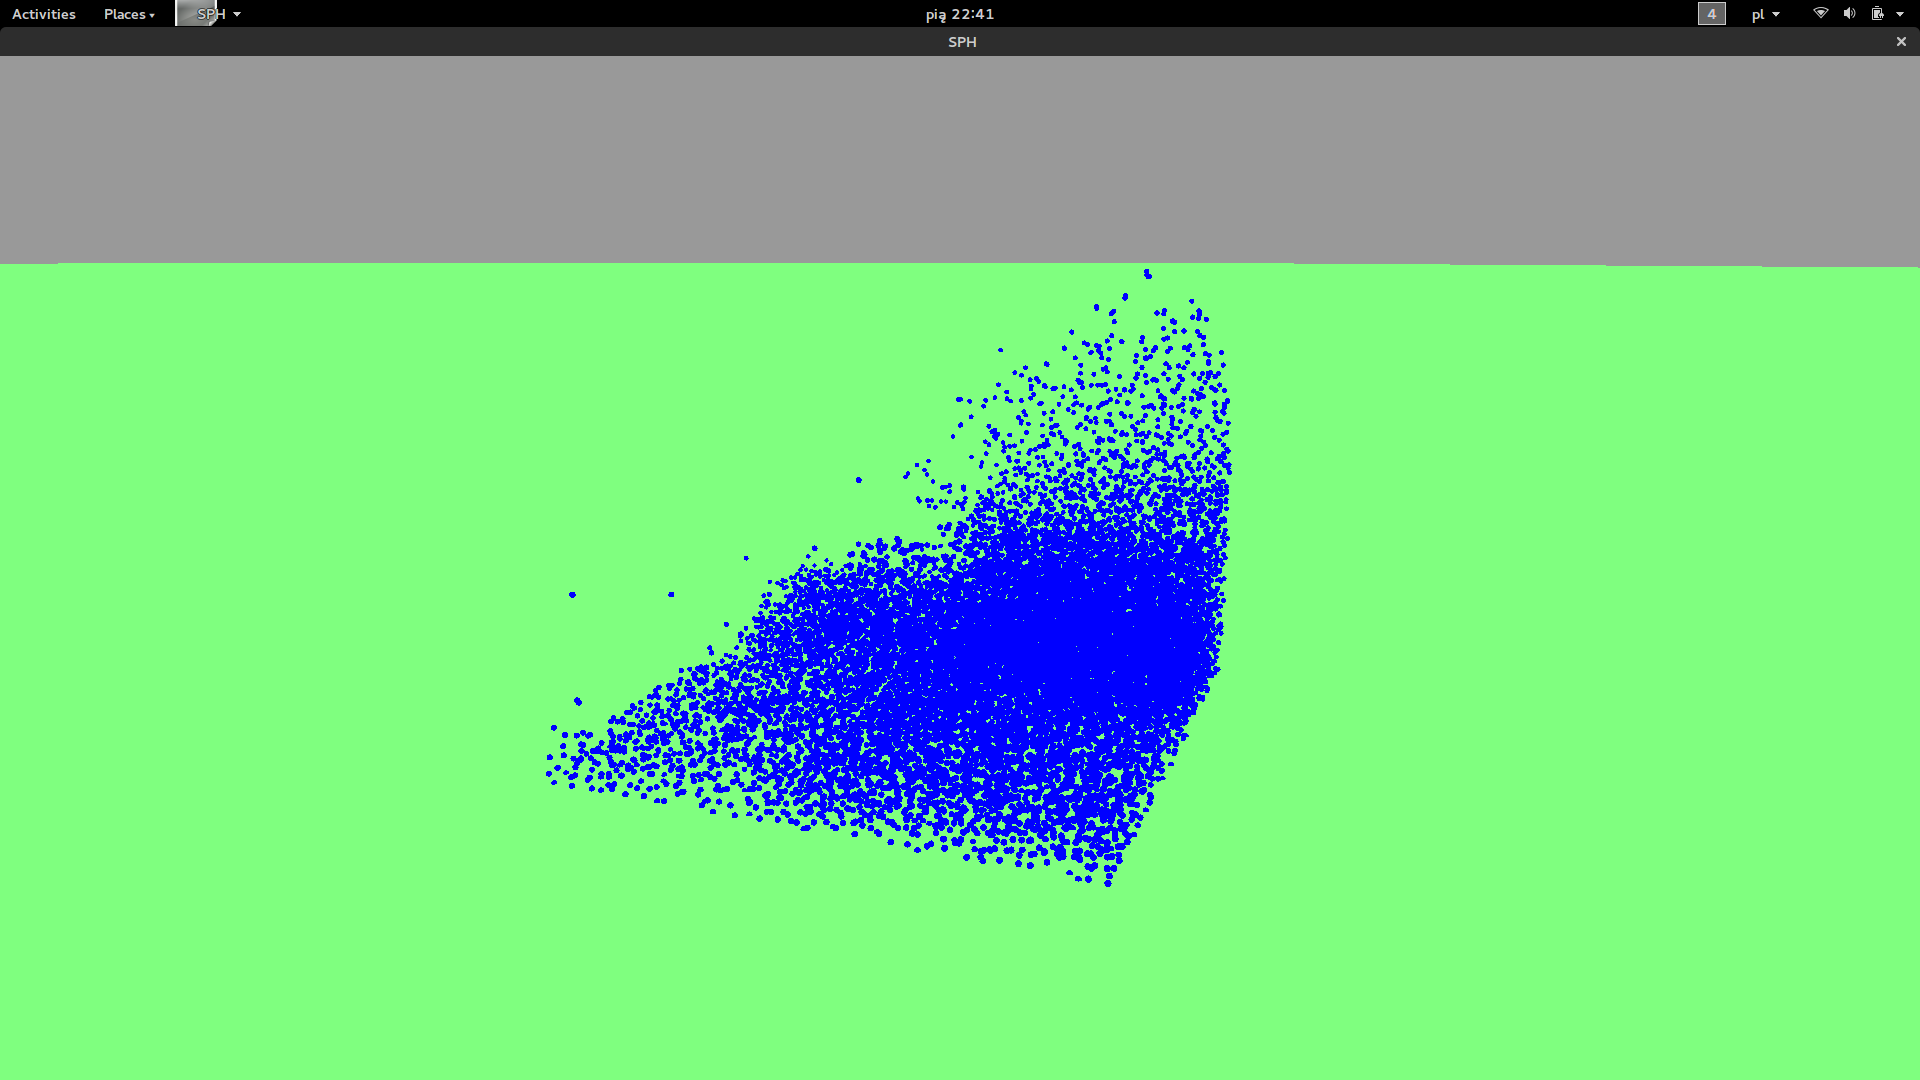
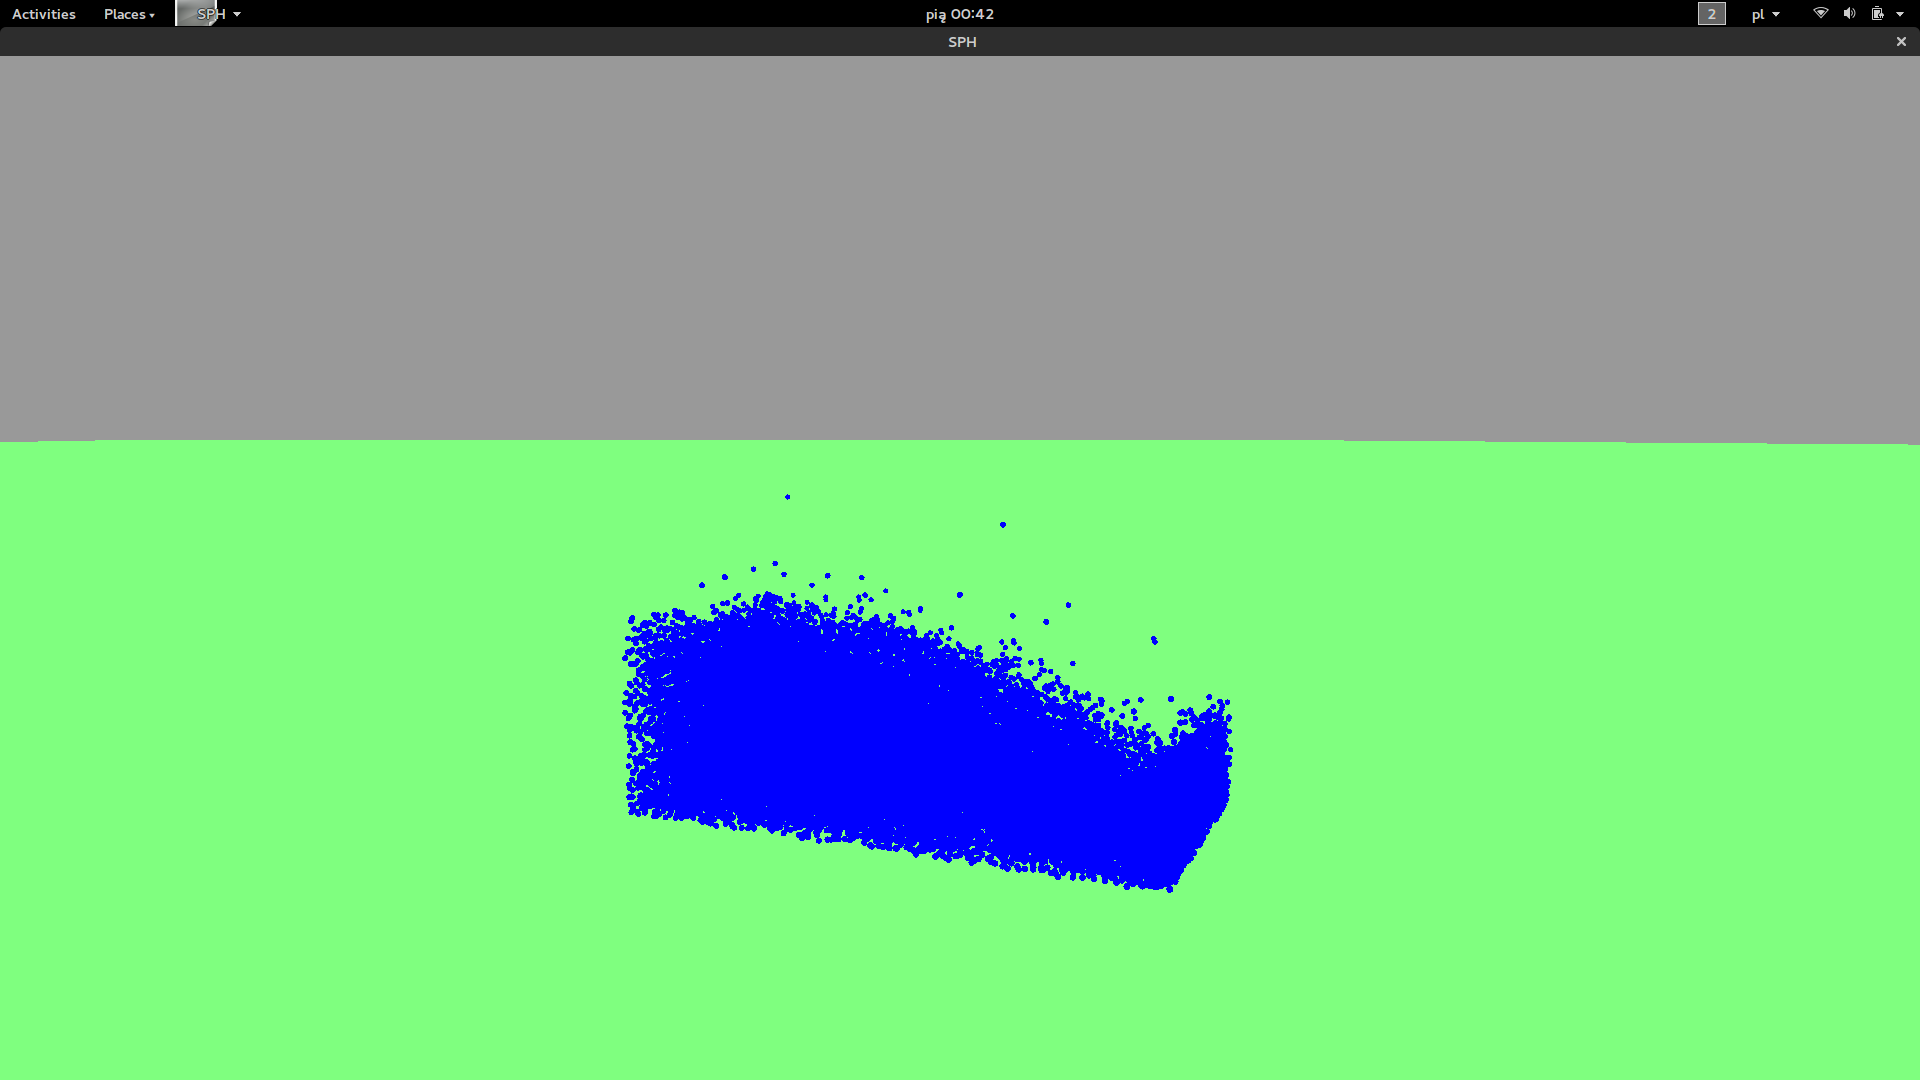
"Update przewodnik2.tex"

Changed region(s): [[0.0, 0.2444, 1.0, 0.825]]

diff --git a/doc/przewodnik.tex b/doc/przewodnik.tex
@@ -25,16 +25,32 @@
 
 \section{Opis problemu}
 
-	Symulacja czasu rzeczywistego zjawisk fizycznych jest zagadnieniem złożonym zarówno od strony teoretycznej jak i od strony implementacyjnej. Aby uzyskać realistycznie wyglądający efekt wymagane jest opracowanie szczegółowego modelu fizycznego danego zjawiska, zapisanie go w taki sposób aby umożliwić jego implementację i na końcu olbrzymia moc obliczeniowa, aby móc podziwiać efekty działania modelu w czasie rzeczywistym. Pierwsze dwa kroki są zależne od nas i możemy je do woli szlifować, jednak w obliczu zbyt małej mocy procesorów jedyny możliwy efekt końcowy do zbiór danych wyjściowych otrzymywany po wykonaniu wszystkich obliczeń - rzecz bezużyteczna w symulacjach czasu rzeczywistego takich jak na przykład gry komputerowe.
-
-	W symulacji zjawisk fizycznych często występuje konieczność wykonywania dużej ilość prostych, powtarzalnych obliczeń dla różnych elementów układu. Przykładem może być symulacja zachowania żdźbeł trawy w szerokim polu. Mogą być ich miliony, a dla każdego z nich musimy wykonać podobne obliczenia zależne od takich czynników jak kierunek wiatru, nacisk otaczających elementów czy ukształtowanie podłoża. CPU nie będzie w stanie nadążyć przy tak olbrzymiej liczbie elementów nawet jeśli odpowienio wykorzystamy wszystkie dostępne rdzenie. 
+	Symulacja czasu rzeczywistego zjawisk fizycznych jest zagadnieniem złożonym zarówno od strony teoretycznej, jak i od strony implementacyjnej. Aby uzyskać realistycznie wyglądający efekt wymagane jest opracowanie szczegółowego modelu fizycznego danego zjawiska, zapisanie go w taki sposób aby umożliwić jego implementację i na końcu olbrzymia moc obliczeniowa, aby móc podziwiać efekty działania modelu w czasie rzeczywistym. Pierwsze dwa kroki są zależne od nas i możemy je do woli szlifować, jednak w obliczu zbyt małej mocy procesorów jedyny możliwy efekt końcowy do zbiór danych wyjściowych otrzymywany po wykonaniu wszystkich obliczeń - rzecz bezużyteczna w symulacjach czasu rzeczywistego takich jak na przykład gry komputerowe.
 	
+	$\,$
 
-		Gdy procesory przestały znacząco zwiększać swoją prędkość taktowania, a zaczęła rosnąć ich koegzystentna ilość, popularniejsze stało się przeprowadzanie niezależnych, zrównoleglonych obliczeń w celu pełnego wykorzystania potencjału sprzętu. GPGPU (general purpose computation on graphics processing unit) to technika wykonywania równoległych obliczeń na procesorach graficznych, która zyskuje na popularnośći w ostatnich latach. Wynika to z tego, że w nowoczesnych GPU wykorzystywany jest model obliczeniowy SIMT (single instruction, multiple threads), który w połączeniu z ogromną (w stosunku do CPU) ilością rdzeni (setki, czy nawet tysiące) sprawia, że implementacje pewnych algorytmów mogą uzyskać olbrzymie przyspieszenie.
+	W symulacji zjawisk fizycznych często występuje konieczność wykonywania dużej ilość prostych, powtarzalnych obliczeń dla różnych elementów układu. Przykładem może być symulacja zachowania źdźbeł trawy w szerokim polu. Mogą być ich miliony, a dla każdego z nich musimy wykonać podobne obliczenia zależne od takich czynników jak: kierunek wiatru, nacisk otaczających elementów czy ukształtowanie podłoża. CPU nie będzie w stanie nadążyć przy tak olbrzymiej liczbie elementów, nawet jeśli odpowiednio wykorzystamy wszystkie dostępne rdzenie. 
+	
+	$\,$
 
-	Zjawisko fizyczne, które będzie nas interesować w naszej pracy to zachowanie cieczy znajdującej się za tamą w zamkniętym zbiorniku w przypadku przerwania tejże tamy i wylewania się cieczy do zbiornika. W przypadku symulacji zachowania płynów nie jest możliwa wizualizacja wyników w czasie wykonywania obliczeń, gdy obliczenia uwzględniają wszystkie oddziaływania pomiędzy elementami modelu fizycznego. Konieczna jest zatem dyskretyzacja problemu oraz przyjęcie uproszczonych zjawisk lub zastąpienie ich prostszymi rozwiązaniami aproksymującymi ich zachowania. Istnieje wiele metod symulowania cieczy - DPD (dissipative particle dynamics), SPH (smoothed particle hydrodynamics) czy SDPD (smoothed dissipative particle dynamics), każda mająca swoje zalety i wady.
+		Gdy procesory przestały znacząco zwiększać swoją prędkość taktowania, a zaczęła rosnąć ich koegzystentna ilość, popularniejsze stało się przeprowadzanie niezależnych, zrównoleglonych obliczeń w celu pełnego wykorzystania potencjału sprzętu. GPGPU (general purpose computation on graphics processing unit) to technika wykonywania równoległych obliczeń na procesorach graficznych, która zyskuje na popularności w ostatnich latach. Wynika to z tego, że w nowoczesnych GPU wykorzystywany jest model obliczeniowy SIMT (single instruction, multiple threads), który w połączeniu z ogromną (w stosunku do CPU) ilością rdzeni (setki, czy nawet tysiące) sprawia, że implementacje pewnych algorytmów mogą uzyskać olbrzymie przyspieszenie.
+		
+	$\,$
 
-	Zadaniem naszej pracy jest implementacja metody SPH w technice GPGPU oraz stworzenie aplikacji, która umożliwi wizualizację zachowania cieczy w trakcie wykonywania symulacji przerwania tamy. Pomimo iż metoda ta została pierwszy raz zaproponowana w roku 1977, to dopiero od niedawna możliwe jest jej wykorzystanie do zaprezentowania wyników w czasie rzeczywistym.
+	Przedmiotem naszych zainteresowań jest efektywna symulacja zachowania cieczy newtonowskiej, co może być wykorzystane np. w grach wideo. Do sprawdzenia poprawności wykonywanej symulacji służy nam benchmark o nazwie "przerwanie tamy". Polega on na początkowym umiejscowieniu cząstek w pozycji podobnej do przedstawionej na rysunku (\ref{przerwanie_tamy}), a następnie rozpoczęciu symulacji. 
+	
+	\begin{figure}[h!]
+	\centering
+		\includegraphics[width=0.8\textwidth]{starting_position.png}
+		\caption{Przykładowa pozycja początkowa benchmarku "przerwanie tamy"}
+		\label{img:przerwanie_tamy}
+	\end{figure}
+	
+	W przypadku symulacji zachowania płynów nie jest możliwa wizualizacja wyników w czasie wykonywania obliczeń, gdy obliczenia uwzględniają wszystkie oddziaływania pomiędzy elementami modelu fizycznego. Konieczna jest zatem dyskretyzacja problemu oraz przyjęcie uproszczonych zjawisk lub zastąpienie ich prostszymi rozwiązaniami aproksymującymi ich zachowania. Istnieje wiele metod symulowania cieczy - DPD (dissipative particle dynamics), SPH (smoothed particle hydrodynamics) czy SDPD (smoothed dissipative particle dynamics), każda mająca swoje zalety i wady.
+	
+	$\,$
+
+	Zadaniem naszej pracy jest implementacja metody SPH w technice GPGPU oraz stworzenie aplikacji, która umożliwi wizualizację zachowania cieczy w trakcie wykonywania benchmarku "przerwanie tamy". Pomimo iż metoda ta została pierwszy raz zaproponowana w roku 1977, to dopiero od niedawna możliwe jest jej wykorzystanie do zaprezentowania wyników w czasie rzeczywistym.
 
 
 \section{Zakres funkcjonalności}
@@ -42,7 +58,6 @@
 	Nasz projekt to aplikacja wykorzystująca przede wszystkim technologie OpenCL i OpenGL, w której można wyróżnić front-end (tj. wizualizację wykonaną przy pomocy OpenGL) oraz back-end (obliczenia, które symulują zachowanie cieczy). Jako, że obie wymienione technologie wykorzystują procesory graficzne, komunikacja między back-endem a front-endem została zrealizowana poprzez współdzielone bufory na karcie graficznej. 
 
 	Aplikacja umożliwia poruszanie się po wirtualnym świecie przy pomocy klawiszy WSAD oraz lewego przycisku myszy, restartowanie symulacji przy pomocy prawego przycisku myszy oraz dobieranie parametrów symulacji takich jak lepkość czy gęstość cieczy etc.
-
 
 \section{Wybrane aspekty realizacji}
 
@@ -52,8 +67,19 @@
 		\item Do renderowania wykorzystaliśmy bibliotekę OpenGL. Kluczowa w osiągnięciu dobrych wyników okazał się dobór odpowiedniej techniki rysowania sfer zwanej “impostor sphere”.
 		\item Do GPGPU wykorzystaliśmy bibliotekę OpenCL. Zdecydowaliśmy się korzystać z API w języku C a nie C++ ze względu na lepszą dokumentację.
 		\item Konieczna była komunikacja między OpenGL i OpenCL. Wykorzystaliśmy do tego część OpenCL zwaną OpenCL/OpenGL interop.
-		\item Całość projektu była zarządzana przy pomocy CMake. Wykorzystaliśmy tylko wieloplatformowe otwarte bibliotki co sprawia, że nasza aplikacja działa zarówno na systemach Linuks jak i Windows.
+		\item Całość projektu była zarządzana przy pomocy CMake. Wykorzystaliśmy tylko wieloplatformowe otwarte biblioteki co sprawia, że nasza aplikacja działa zarówno na systemach Linux jak i Windows.
 	\end{itemize}
+	
+\section{Sposób testowania tworzonego oprogramowania}
+
+	Przeprowadzana symulacja w dużej mierze była czymś dla nas nieprzewidywalnym. Nie byliśmy w stanie obliczyć przykładowych poprawnych rozwiązań metody SPH, które później wykorzystalibyśmy do testów jednostkowych, ponieważ najmniejsza zmiana w metodzie mogła całkowicie zaburzyć wyniki. Część systemu odpowiedzialna za grafikę także mogła być testowana tylko naocznie. Postanowiliśmy więc porzucić pomysł stosowania testów automatycznych, ze względu na brak oczywistego i użytecznego sposobu na wdrożenie ich w kluczowych miejscach wytwarzanego przez nas systemu.
+	 
+	 Stosowane przez nas techniki testowania naszego systemu polegały w dużej mierze na tworzeniu przejrzystych i precyzyjnych logów aplikacji oraz na naocznym sprawdzaniu rezultatów działania symulacji. 
+	 
+	 Logi okazały się szczególnie przydatne kiedy implementowaliśmy samą metodę SPH w OpenCL. Zapisywaliśmy do nich wyniki kompilacji jąder OpenCL, dzięki czemu ominęliśmy wiele godzin szukania drobnych błędów składniowych w tychże jądrach. 
+	 
+	 Naoczne sprawdzanie rezultatów działania aplikacji było jedyną możliwą opcją w kwestii potwierdzenia poprawności zaimplementowanej metody ponieważ głównym testem naszej aplikacji było to, czy uzyskany rezultat przypomina w swoim zachowaniu rzeczywistą ciecz. Zachowanie się cząstek w sposób przypominający ciecz jest rzeczą na tyle złożoną, że uzyskanie takiego efektu w dużej mierze potwierdza poprawność zaimplementowanych algorytmów. 
+	 
 
 \section{Organizacja pracy}
 
@@ -65,11 +91,11 @@
 
 	W drugiej iteracji zaimplementowaliśmy algorytm SPH korzystając z OpenCL. Wynikiem drugiej iteracji była prawie w całości działająca aplikacja, niemniej jednak były pewne błędy, zarówno implementacyjne jak i wynikające z przyjętego modelu, które musiały zostać wyeliminowane.
 
-	Trzecia iteracja to poprawki w modelu obliczeń, debuggowanie kodu oraz dodatki umożliwiające łatwiejszą interakcją użytkownika z aplikacją oraz redagowanie dokumentacji.
+	Trzecia iteracja to poprawki w modelu obliczeń, debugowanie kodu oraz dodatki umożliwiające łatwiejszą interakcją użytkownika z aplikacją oraz redagowanie dokumentacji.
 
-	Wizualizacji została napisana przez Dawid Romanowskiego natomiast symulacja została w większości napisana przez Wojciecha Czarnego. Ze względu na poziom skomplikowania algorytmu SPH w trakcie implementacji symulacji korzystaliśmy z technik pair programming i rubber duck debugging.
+	Wizualizacja została napisana przez Dawid Romanowskiego, natomiast symulacja została w większości napisana przez Wojciecha Czarnego. Ze względu na poziom skomplikowania algorytmu SPH w trakcie implementacji symulacji korzystaliśmy z technik pair programming i rubber duck debugging.
 
-	W ostatniej iteracji Wojciech Czarny zajmował się naprawianiem usterek i testowaniem natomiast Dawid Romanowski redagowaniem dokumentacji ze zebranych w trakcie prac notatek.
+	W ostatniej iteracji Wojciech Czarny zajmował się naprawianiem usterek i testowaniem, natomiast Dawid Romanowski redagowaniem dokumentacji z zebranych w trakcie prac notatek.
 
 \section{Wyniki projektu}
 

diff --git a/doc/przewodnik2.tex b/doc/przewodnik2.tex
@@ -36,7 +36,14 @@
 
 	$\,$
 
-	Przedmiotem naszych zainteresowań jest efektywna symulacja zachowania cieczy newtonowskiej, co może być wykorzystane np. w grach wideo. Do testowania realności symulacji posłużył nam benchmark, którym jest obserwacja zachowania cieczy znajdującej się za tamą w zamkniętym zbiorniku, w przypadku przerwania tejże tamy i wylewania się cieczy do zbiornika. 
+		Przedmiotem naszych zainteresowań jest efektywna symulacja zachowania cieczy newtonowskiej, co może być wykorzystane np. w grach wideo. Do sprawdzenia poprawności wykonywanej symulacji służy nam benchmark o nazwie "przerwanie tamy". Polega on na początkowym umiejscowieniu cząstek w pozycji podobnej do przedstawionej na rysunku (\ref{img:przerwanie_tamy}), a następnie rozpoczęciu symulacji. 
+		
+	\begin{figure}[h!]
+		\centering
+		\includegraphics[width=0.8\textwidth]{starting_position.png}
+		\caption{Przykładowa pozycja początkowa benchmarku "przerwanie tamy"}
+		\label{img:przerwanie_tamy}
+	\end{figure}
 	
 	W przypadku symulacji zachowania płynów nie jest możliwa wizualizacja wyników w czasie wykonywania obliczeń, gdy obliczenia uwzględniają wszystkie oddziaływania pomiędzy elementami modelu fizycznego. Konieczna jest zatem dyskretyzacja problemu oraz przyjęcie uproszczonych zjawisk lub zastąpienie ich prostszymi rozwiązaniami aproksymującymi ich zachowania. Istnieje wiele metod symulowania cieczy - DPD (dissipative particle dynamics), SPH (smoothed particle hydrodynamics) czy SDPD (smoothed dissipative particle dynamics), każda z nich ma swoje zalety i wady.
 
@@ -293,7 +300,16 @@ Bardzo ciężko jest znaleźć w internecie poprawną implementację metody SPH 
 				\hline
 			\end{tabular}
 
+\section{Sposób testowania tworzonego oprogramowania}
 
+	Przeprowadzana symulacja w dużej mierze była czymś dla nas nieprzewidywalnym. Nie byliśmy w stanie obliczyć przykładowych poprawnych rozwiązań metody SPH, które później wykorzystalibyśmy do testów jednostkowych, ponieważ najmniejsza zmiana w metodzie mogła całkowicie zaburzyć wyniki. Część systemu odpowiedzialna za grafikę także mogła być testowana tylko naocznie. Postanowiliśmy więc porzucić pomysł stosowania testów automatycznych, ze względu na brak oczywistego i użytecznego sposobu na wdrożenie ich w kluczowych miejscach wytwarzanego przez nas systemu.
+	 
+	 Stosowane przez nas techniki testowania naszego systemu polegały w dużej mierze na tworzeniu przejrzystych i precyzyjnych logów aplikacji oraz na naocznym sprawdzaniu rezultatów działania symulacji. 
+	 
+	 Logi okazały się szczególnie przydatne kiedy implementowaliśmy samą metodę SPH w OpenCL. Zapisywaliśmy do nich wyniki kompilacji jąder OpenCL, dzięki czemu ominęliśmy wiele godzin szukania drobnych błędów składniowych w tychże jądrach. 
+	 
+	 Naoczne sprawdzanie rezultatów działania aplikacji było jedyną możliwą opcją w kwestii potwierdzenia poprawności zaimplementowanej metody ponieważ głównym testem naszej aplikacji było to, czy uzyskany rezultat przypomina w swoim zachowaniu rzeczywistą ciecz. Zachowanie się cząstek w sposób przypominający ciecz jest rzeczą na tyle złożoną, że uzyskanie takiego efektu w dużej mierze potwierdza poprawność zaimplementowanych algorytmów. 
+	 
 
 \section{Organizacja pracy}
 
@@ -381,8 +397,24 @@ Bardzo ciężko jest znaleźć w internecie poprawną implementację metody SPH 
 
 \section{Wyniki projektu}
 
-Udało się stworzyć aplikację będącą PoC (Proof of Concept, ang. dowód koncepcji) badanego problemu. Aplikacja ta przeprowadza symulację zachowania płynu przy użyciu metody SPH zaimplementowanej jako seria jąder OpenCL. Wyniki przeprowadzanej symulacji wizualizowane są w czasie rzeczywistym przy użyciu OpenGL. Płynność uzyskanej animacji zależy oczywiście od ilości symulowanych cząstek, jednak zdaniem naszym i klienta jest ona zadowalająca. Przy ilościach cząstek rzędu milion uzyskujemy ponad 30 fps (frames per second, ang. klatki na sekundę).
+Udało się stworzyć aplikację będącą PoC (Proof of Concept, ang. dowód koncepcji) badanego problemu. Aplikacja ta przeprowadza symulację zachowania płynu przy użyciu metody SPH zaimplementowanej jako seria jąder OpenCL. Wyniki przeprowadzanej symulacji wizualizowane są w czasie rzeczywistym przy użyciu OpenGL. Płynność uzyskanej animacji zależy oczywiście od ilości symulowanych cząstek, jednak zdaniem naszym i klienta jest ona zadowalająca. Przy ilościach cząstek rzędu milion uzyskujemy ponad 30 fps (frames per second, ang. klatki na sekundę). Przykładowa sekwencja klatek wykonywanej symulacji została zaprezentowana na rysunku (\ref{img:screen}). Użyte parametry to $g=-10$, $h=0.05$, $m=0.02$ oraz $\rho_0=450$.
+
+	\begin{figure}[h!]
+		\centering
+		\includegraphics[width=0.49\textwidth]{1.png}
+		\includegraphics[width=0.49\textwidth]{2.png}
+		\includegraphics[width=0.49\textwidth]{3.png}
+		\includegraphics[width=0.49\textwidth]{4.png}
+		\includegraphics[width=0.49\textwidth]{5.png}
+		\includegraphics[width=0.49\textwidth]{6.png}
+		\includegraphics[width=0.49\textwidth]{7.png}
+		\includegraphics[width=0.49\textwidth]{8.png}
+		\caption{Screenshoty z działania aplikacji}
+		\label{img:screen}
+	\end{figure}
 		
+	$\,$		
+	
 		Poniższe elementy nie zostały zrealizowane w pełni bądź pominięte, głównie z powodu braku czasu. Nie są to elementy niezbędne do poprawnego działania projektu, jednakże ich realizacja bardzo pomogłaby w dalszym rozwoju stworzonego oprogramowania.
 		
 		\begin{itemize}

diff --git a/src/Game/World/Actor/Components/Water/WaterLogicComponent.cpp b/src/Game/World/Actor/Components/Water/WaterLogicComponent.cpp
@@ -74,7 +74,7 @@ game::WaterLogicComponent::WaterLogicComponent(game::ActorWPtr actorWPtr) {
     cl_float m = 0.02;
 
 
-    cl_float4 g{0,-20,0,0};
+    cl_float4 g{0,-10,0,0};
     cl_float mi{8};
     cl_float k{2};
     cl_float speed_loss{1};
